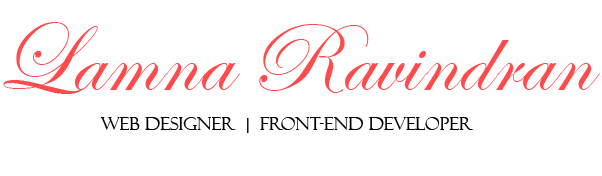
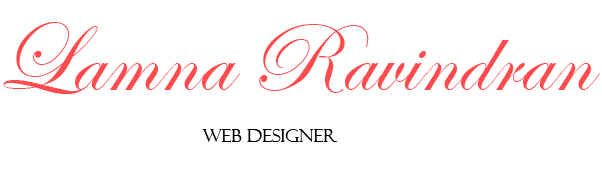
landing page updated

Changed region(s): [[0.1495, 0.6534, 0.7774, 0.8239]]

diff --git a/index.html b/index.html
@@ -43,8 +43,8 @@
           <div class="bar3"></div>
         </div>
       </button>
-      <div class="quotes"><a class="navbar-brand myLogo " href="#myPage"><img  class="logo-img" width='40%;'src="images/le-black.png"/></a></div>
-	   <div class="quotes"><a class="navbar-brand myLogo " href="#myPage"><img  class="logo-img"  width='40%;'src="images/le-red.png"/></a></div>
+      <div class="quotes"><a class="navbar-brand myLogo " href="#myPage"><img  class="logo-img" width='80%;'src="images/le-black.png"/></a></div>
+	   <div class="quotes"><a class="navbar-brand myLogo " href="#myPage"><img  class="logo-img"  width='80%;'src="images/le-red.png"/></a></div>
     </div>
     <div class="collapse navbar-collapse nav-anim" id="myNavbar">
       <ul class="nav navbar-nav navbar-right">
@@ -63,7 +63,7 @@
 <div class="loader"></div> 
 <div class="name text-center">
 <div class="myName">
- <img class="myName"  style="width:40%; "src="images/my-name.png"/> 
+ <img class="myName"  style="width:50%; "src="images/my-name.png"/> 
   <!-- <h1 style="color:#000000;">I'M </br>
   LAMNA RAVINDRAN</h1>
   <h5>WEB DESIGNER |  DEVELOPER</h5>  -->
@@ -81,12 +81,10 @@
     <div class="col-sm-8" >
       <h2 class="headings animation-element wow fadeInDown" data-wow-duration="2s" data-wow-delay="2s" >About Me</h2>
 	  <div class="line"></div>
-      <h4 class="about-me">Creative Web Designer/Developer with a background in architecture currently employed in a private firm in Cupertino 
-	  since September 2015. I have more than 4 years of work experience. 
-	  In my current role, I Design/Develop commercial and corporate Realtor Websites using XML, HTML5, CSS3, JavaScript, JQuery and Bootstrap. 
-	  Experienced in designing and developing responsive and interactive websites, 
-	  which includes creating logos, manipulating images using Photoshop and Illustrator. 
-	  I am a quick learner and adept in visualizing and designing layouts and always looking forward to new and challenging assignments.</h4><br>
+      <h4 class="about-me">Creative Web Designer focussed on UI and graphic design with more than 4 years of industry experience. 
+	  Extensive experience in designing responsive and interactive commercial and corporate websites using XML, HTML5, CSS3, JavaScript, JQuery and Bootstrap. 
+	  Graphic design skills includes creating logos, icons and manipulating images using Photoshop and Illustrator. 
+	  Quick learner, adept in visualizing and designing based on dynamic customer requirements.</h4><br>
     </div>
 	
 	<div class="col-sm-3 ">
@@ -167,7 +165,7 @@
     </div>
 	    <div class="col-sm-3 hover03" style="padding:0;">
       <div class="thumbnail">
-        <a style="text-decoration:none;" href="http://www.rockcliff.com/kjarvis/" target="_blank"><img src="images/krista1.png" width="400" height="300">
+        <a style="text-decoration:none;" href="http://dave-dawson.net/" target="_blank"><img src="images/Dawson.png" width="400" height="300">
         <p class="sub-head" >Commercial Website</p>
         <p class="projects-p">Developed this video banner website using xml, html5, css3, bootstrap and jquery in dreamweaver.</p></a>
       </div>
@@ -216,7 +214,7 @@
 	
 	    <div class="col-sm-3 hover03" style="padding:0;">
       <div class="thumbnail">
-        <a style="text-decoration:none;" href="http://www.wolffgrp.biz/" target="_blank"><img src="images/wolff.jpg" width="400" height="300">
+        <a style="text-decoration:none;max-width:400px;max-height:300px;" href="http://www.joevelasco.com/" target="_blank"><img style="text-decoration:none;max-width:400px;max-height:300px;" src="images/jeo.png" width="400" height="300">
         <p class="sub-head">Commercial Website</p>
         <p class="projects-p">Developed this website from scratch to finish including gathering client requirements, 
 		creating design documentation, mock-ups, building mark-ups using Xml, html5 , Css3, bootstrap and image manipulation using Photoshop.</p></a>
